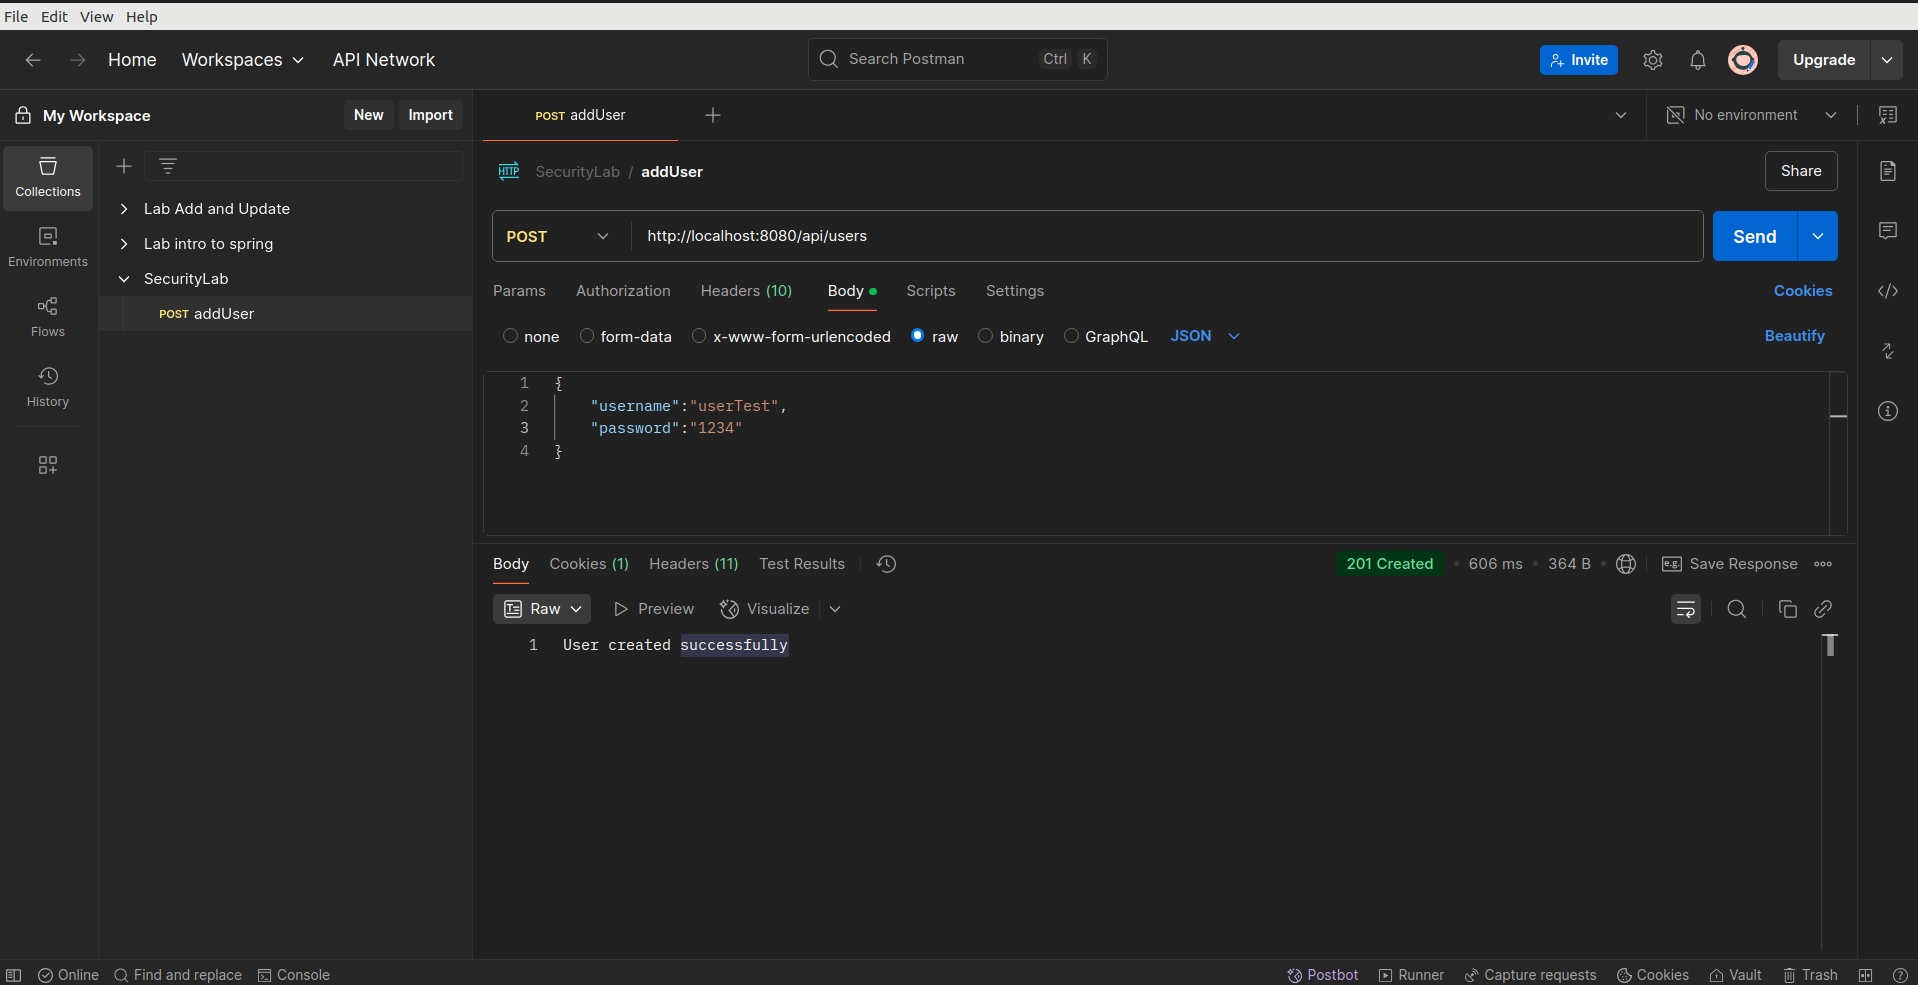
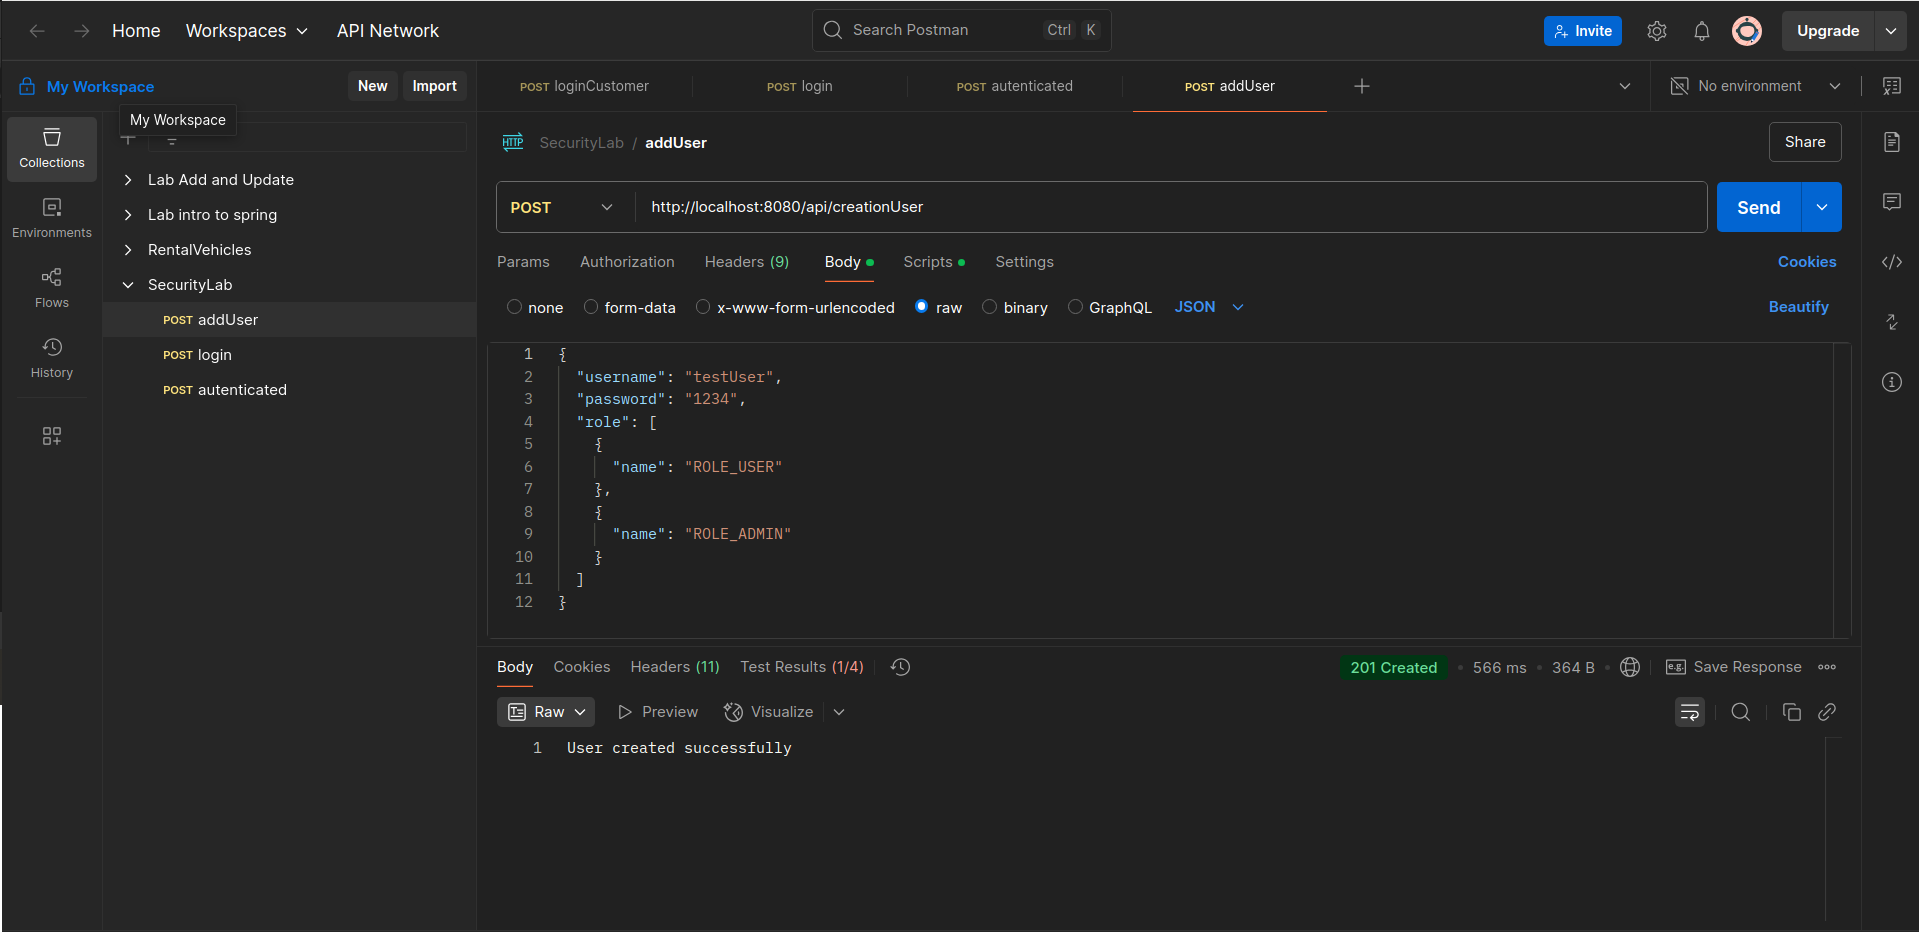
route with token

diff --git a/src/main/java/com/labSecurity/security/service/JwtServices.java b/src/main/java/com/labSecurity/security/service/JwtServices.java
@@ -5,25 +5,31 @@ import com.auth0.jwt.algorithms.Algorithm;
 import com.auth0.jwt.exceptions.JWTVerificationException;
 import com.auth0.jwt.interfaces.DecodedJWT;
 
+import com.labSecurity.security.models.Role;
 import org.springframework.stereotype.Service;
 
+import java.util.Arrays;
+import java.util.Collection;
 import java.util.Date;
 import java.util.List;
+import java.util.stream.Collectors;
 
 
 @Service
 public class JwtServices {
     private static final String SECRET = "@Secret_Key";
 
-    public String generateToken(String username, String role) {
-        System.out.println(username+" "+role);
+    public String generateToken(String username, Collection<Role> roles) {
+        String[] roleNames = roles.stream()
+                .map(role -> role.getName().name())
+                .toArray(String[]::new);
+
         return JWT.create()
                 .withSubject(username)
-                .withClaim("roles", role)
+                .withArrayClaim("roles", roleNames)
                 .withIssuedAt(new Date())
-                .withExpiresAt(new Date(System.currentTimeMillis() + 60 * 60 * 1000)) // 1 hour
+                .withExpiresAt(new Date(System.currentTimeMillis() + 60 * 60 * 1000))
                 .sign(Algorithm.HMAC256(SECRET));
-
     }
 
     public boolean validateToken(String token) {
@@ -44,11 +50,11 @@ public class JwtServices {
     }
 
     // Method to extract roles from the token
-    public String extractRoles(String token) {
+    public List<String> extractRoles(String token) {
         DecodedJWT jwt = JWT.require(Algorithm.HMAC256(SECRET))
                 .build()
                 .verify(token);
 
-        return jwt.getClaim("roles").asString();
+        return jwt.getClaim("roles").asList(String.class);
     }
 }

diff --git a/src/main/java/com/labSecurity/security/service/UserService.java b/src/main/java/com/labSecurity/security/service/UserService.java
@@ -1,15 +1,11 @@
 package com.labSecurity.security.service;
 
-import com.labSecurity.security.models.Role;
 import com.labSecurity.security.models.User;
-import com.labSecurity.security.repository.RolesRepository;
+import com.labSecurity.security.repository.RoleRepository;
 import com.labSecurity.security.repository.UserRepository;
 import org.springframework.beans.factory.annotation.Autowired;
 import org.springframework.security.crypto.password.PasswordEncoder;
 import org.springframework.stereotype.Service;
-
-import java.util.ArrayList;
-import java.util.Collection;
 
 @Service
 public class UserService {
@@ -19,17 +15,25 @@ public class UserService {
     @Autowired
     private PasswordEncoder passwordEncoder;
     @Autowired
-    private RolesRepository rolesRepository;
+    private RoleRepository roleRepository;
 
     public boolean createUser(User user) {
         try {
-            System.out.println(user);
+
             // set the user properties
             User newuser = new User();
             newuser.setUsername(user.getUsername());
             newuser.setPassword(passwordEncoder.encode(user.getPassword()));
-
             userRepository.save(newuser);
+            // Assign the  role to the user
+            user.getRole().forEach(role -> {
+                // Find the id by its Username
+                User userId = userRepository.findIdByUsername(user.getUsername());
+                role.setUser(userId);
+                // Save the role
+                roleRepository.save(role);
+            });
+
             return true;
         } catch (Exception e) {
             e.printStackTrace();

diff --git a/src/main/java/com/labSecurity/security/controllers/routeProtectedController/routeRequiredAuth.java b/src/main/java/com/labSecurity/security/controllers/routeProtectedController/routeRequiredAuth.java
@@ -3,19 +3,29 @@ package com.labSecurity.security.controllers.routeProtectedController;
 
 import com.labSecurity.security.models.User;
 import com.labSecurity.security.security.JwtAuthenticationFilter;
+import org.springframework.http.HttpStatus;
 import org.springframework.http.ResponseEntity;
+import org.springframework.security.core.Authentication;
+import org.springframework.security.core.GrantedAuthority;
 import org.springframework.web.bind.annotation.*;
+
+import java.util.Collection;
 
 @RestController
 @RequestMapping("/routeRequiredAuth")
 public class routeRequiredAuth {
 
 
-
     @PostMapping("/authenticated")
-    public ResponseEntity<?> authenticated(@RequestBody User user) {
-        String username = user.getUsername();
-        return ResponseEntity.ok("Hello " + username + ", this route is protected and you are authenticated.");
+    public ResponseEntity<?> authenticated(Authentication authentication) {
+        if (authentication == null) {
+            return ResponseEntity.status(HttpStatus.UNAUTHORIZED).body("No autorizado");
+        }
+
+        String username = authentication.getName();
+        Collection<? extends GrantedAuthority> authorities = authentication.getAuthorities();
+
+        return ResponseEntity.ok("Hello " + username + ", your roles are: " + authorities);
     }
 
 }

diff --git a/src/main/java/com/labSecurity/security/controllers/routePublicController/loginPublicController.java b/src/main/java/com/labSecurity/security/controllers/routePublicController/loginPublicController.java
@@ -1,7 +1,6 @@
 package com.labSecurity.security.controllers.routePublicController;
 
 
-import com.labSecurity.security.models.Roles_Enum;
 import com.labSecurity.security.models.User;
 import com.labSecurity.security.repository.UserRepository;
 import com.labSecurity.security.service.DTO.UserResponseDTO;
@@ -12,7 +11,6 @@ import org.springframework.http.HttpStatus;
 import org.springframework.http.ResponseEntity;
 import org.springframework.web.bind.annotation.*;
 
-import java.util.List;
 import java.util.Optional;
 
 @RestController
@@ -37,7 +35,7 @@ public class loginPublicController {
             User userFound = userOptional.get();
             if (userService.checkPassword(userFound, user.getPassword())) {
 
-                String token = jwtServices.generateToken(userFound.getUsername(), user.getRole().toString());
+                String token = jwtServices.generateToken(userFound.getUsername(), user.getRole());
                 UserResponseDTO userResponseDTO = new UserResponseDTO();
                 userResponseDTO.setUsername(user.getUsername());
                 userResponseDTO.setToken(token);

diff --git a/src/main/java/com/labSecurity/security/security/JwtAuthenticationFilter.java b/src/main/java/com/labSecurity/security/security/JwtAuthenticationFilter.java
@@ -20,6 +20,7 @@ import java.io.IOException;
 import java.util.Arrays;
 import java.util.Collection;
 import java.util.Collections;
+import java.util.List;
 import java.util.stream.Collectors;
 
 @Component
@@ -57,11 +58,13 @@ public class JwtAuthenticationFilter extends OncePerRequestFilter {
 
         // If the token is valid, extract the username and roles
         String username = jwtService.extractUsername(token);
-        String rolesString = jwtService.extractRoles(token);
-        System.out.println(rolesString);
+        List<String> roles = jwtService.extractRoles(token);
+
 
         // Convert the roles string to a list of Spring Security authorities
-        Collection<GrantedAuthority> authorities = extractAuthorities(rolesString);
+        Collection<GrantedAuthority> authorities = roles.stream()
+                .map(SimpleGrantedAuthority::new)
+                .collect(Collectors.toList());
 
         // Create an Authentication object with user information
         UsernamePasswordAuthenticationToken authentication =

diff --git a/src/main/java/com/labSecurity/security/security/SecurityConfig.java b/src/main/java/com/labSecurity/security/security/SecurityConfig.java
@@ -28,8 +28,11 @@ public class SecurityConfig {
                 .sessionManagement(session -> session.sessionCreationPolicy(SessionCreationPolicy.STATELESS))
                 .authorizeHttpRequests(auth ->
                         auth
-                                .requestMatchers("/api/**").permitAll()
-                                .anyRequest().authenticated()
+                                .requestMatchers("/api/creationUser","api/login","api/public").permitAll()
+                                .requestMatchers("/api/admin/**").hasRole("ADMIN")
+                                .requestMatchers("/routeRequiredAuth/authenticated").authenticated()
+
+
                 )
                 .addFilterBefore(jwtAuthFilter, UsernamePasswordAuthenticationFilter.class);
         return http.build();

diff --git a/src/main/java/com/labSecurity/security/controllers/routePublicController/routePublicController.java b/src/main/java/com/labSecurity/security/controllers/routePublicController/routePublicController.java
@@ -6,7 +6,7 @@ import org.springframework.web.bind.annotation.RequestMapping;
 import org.springframework.web.bind.annotation.RestController;
 
 @RestController
-@RequestMapping("/public")
+@RequestMapping("api/public")
 public class routePublicController {
 
     @GetMapping("/hello")

diff --git a/src/main/java/com/labSecurity/security/controllers/routeProtectedController/AdminController.java b/src/main/java/com/labSecurity/security/controllers/routeProtectedController/AdminController.java
@@ -6,7 +6,7 @@ import org.springframework.web.bind.annotation.RequestMapping;
 import org.springframework.web.bind.annotation.RestController;
 
 @RestController
-@RequestMapping("/admin")
+@RequestMapping("/api/admin")
 public class AdminController {
 
 

diff --git a/src/main/java/com/labSecurity/security/repository/RoleRepository.java b/src/main/java/com/labSecurity/security/repository/RoleRepository.java
@@ -1,0 +1,7 @@
+package com.labSecurity.security.repository;
+
+import com.labSecurity.security.models.Role;
+import org.springframework.data.jpa.repository.JpaRepository;
+
+public interface RoleRepository extends JpaRepository<Role, Integer> {
+}

diff --git a/src/main/java/com/labSecurity/security/models/Role.java b/src/main/java/com/labSecurity/security/models/Role.java
@@ -14,6 +14,9 @@ public class Role {
     private Long id;
 
     @Enumerated(EnumType.STRING)
-    private Roles_Enum name;
+    private Roles_enum name;
 
+    @ManyToOne
+    @JoinColumn(name = "user_id")
+    private User user;
 }

diff --git a/src/main/java/com/labSecurity/security/repository/UserRepository.java b/src/main/java/com/labSecurity/security/repository/UserRepository.java
@@ -10,4 +10,6 @@ import java.util.Optional;
 public interface UserRepository extends JpaRepository<User, Long> {
 
     Optional<User> findByUsername(String username);
+
+    User findIdByUsername(String username);
 }

diff --git a/src/main/java/com/labSecurity/security/models/Roles_enum.java b/src/main/java/com/labSecurity/security/models/Roles_enum.java
@@ -1,8 +1,7 @@
 package com.labSecurity.security.models;
 
-public enum Roles_Enum {
+public enum Roles_enum {
     ROLE_ADMIN,
     ROLE_USER,
     ROLE_MODERATOR,
-    ROLE_LOGIN
 }
